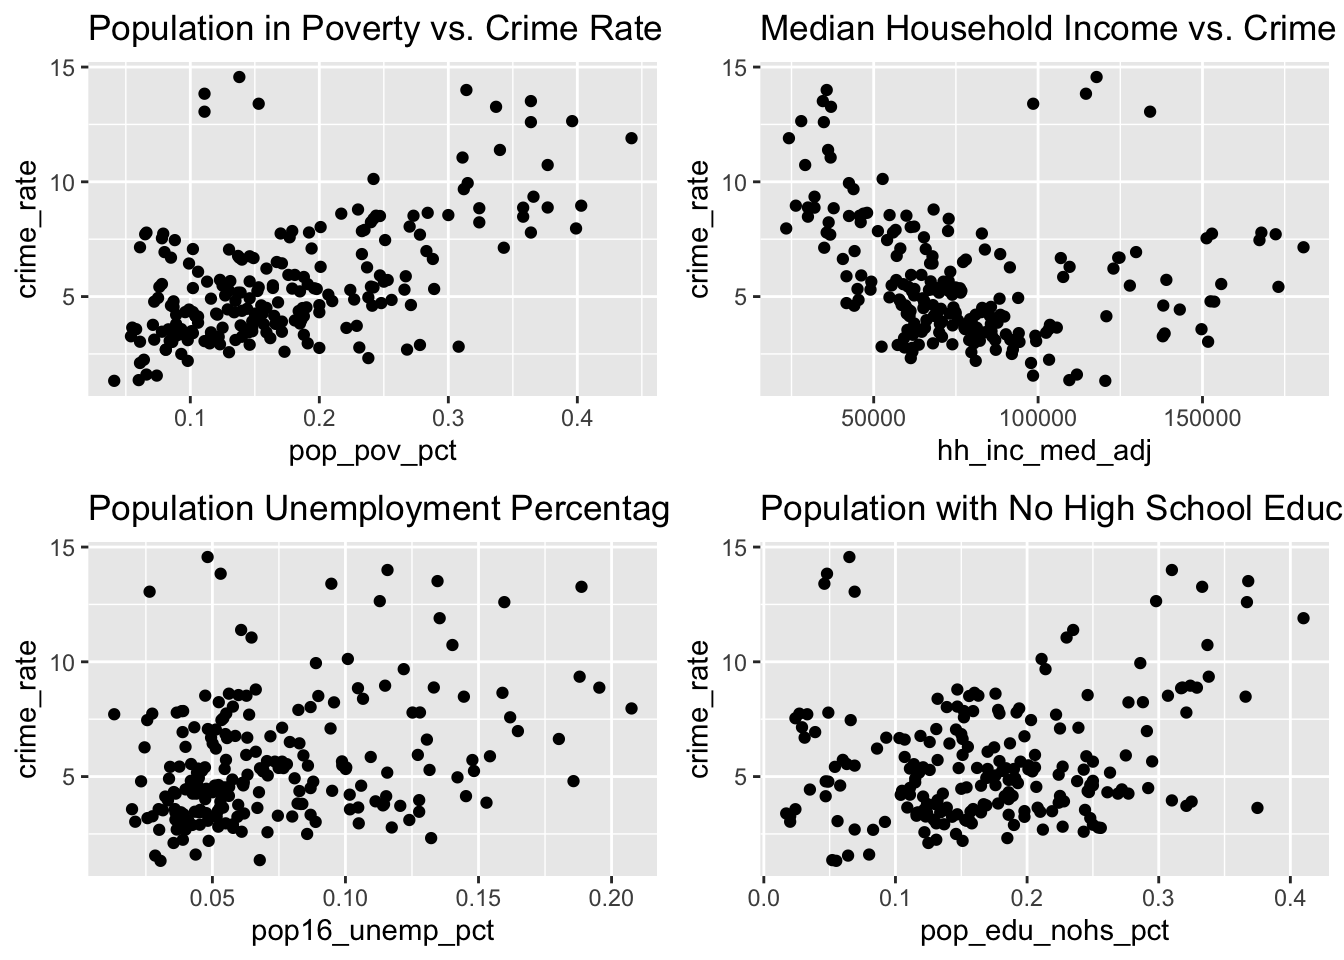
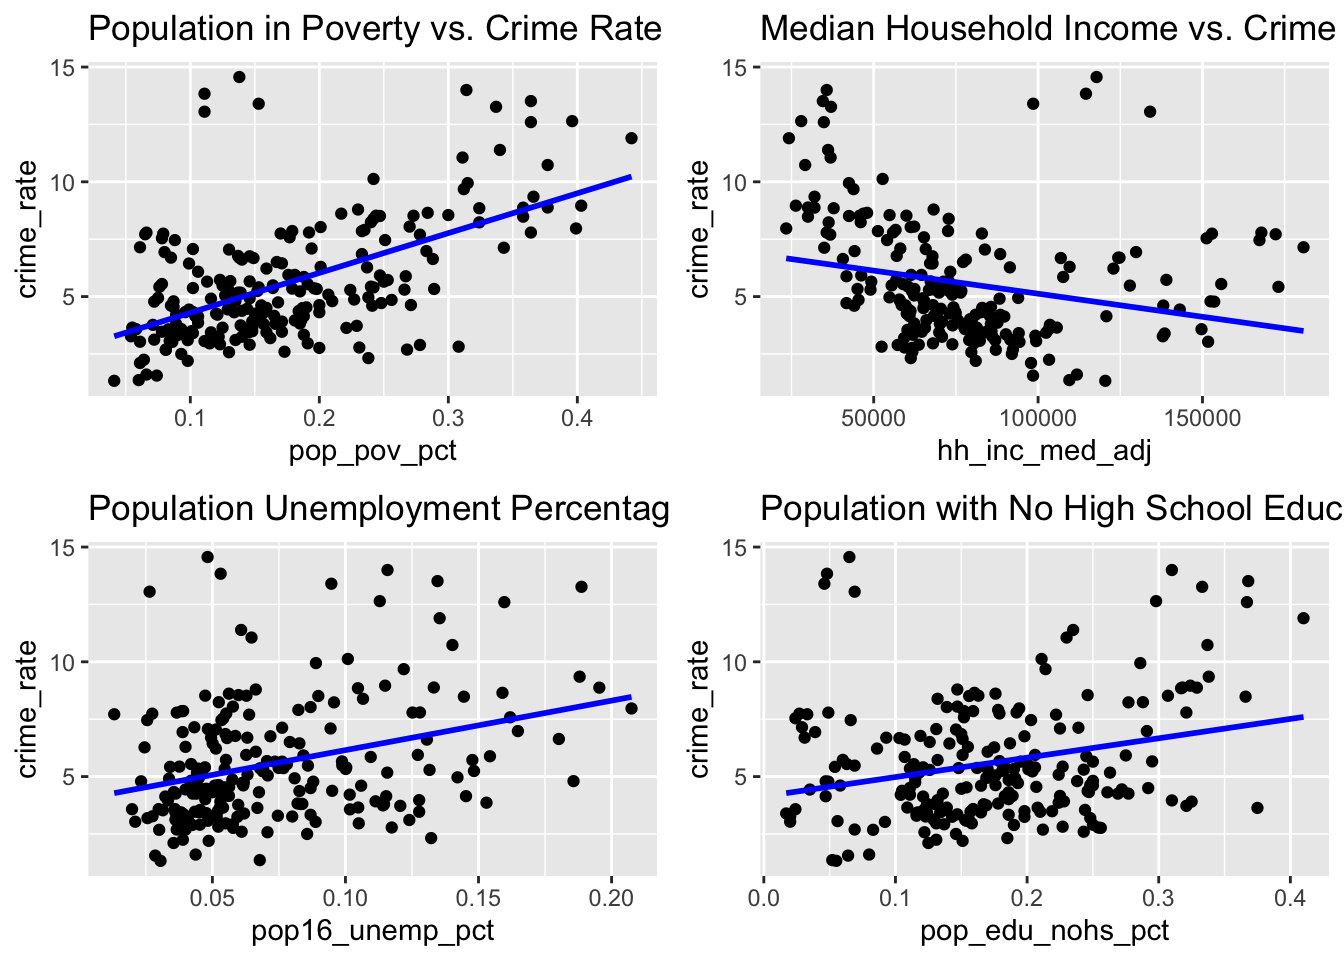
completed MLR for crime rate, file can be knitted

diff --git a/Crime_Rate_Analysis.html b/Crime_Rate_Analysis.html
@@ -404,9 +404,17 @@ div.tocify {
 </div>
 
 
-<p>Reading in the dataset that map each precinct to a neighborhood, for
-further SES analysis</p>
-<pre class="r"><code>prec_neighbor = read_csv(&quot;data/nyc_prec_neighborhood.csv&quot;)</code></pre>
+<p>We are interested in exploring whether socioeconomic factors are
+associated or can be used as predictors to assess crime rate. Since our
+NYPD complaint dataset only contains individual complaints, we utilized
+a socioeconomic indicator dataset (INSERT LINK: NYU Furman Center) to
+gather populational data for each borough and neighborhood.</p>
+<p>To better conduct regression analysis, we have calculated the crime
+rate for each neighborhood as the following: Crime Rate = (Total number
+of complaints in a neighborhood in a given year / Total population in a
+neighborhood in a given year) * 100,000</p>
+<pre class="r"><code>#Reading in the dataset that map each precinct to a neighborhood, for further SES analysis
+prec_neighbor = read_csv(&quot;data/nyc_prec_neighborhood.csv&quot;)</code></pre>
 <pre class="r"><code>#Merging `prec_neighboor` with NYPD dataset, conducting more data cleaning. The resulting `nypd_ses_df` only contains variables of interest for SES analysis. `nypd_ses_df` now contains neighboorhood information, as well as other necessary data from the original master data 
 nypd_ses_df = df_nypd |&gt; 
   select(cmplnt_num, cmplnt_fr_dt, addr_pct_cd, crm_atpt_cptd_cd, law_cat_cd, susp_age_group, susp_race, susp_sex, vic_age_group, vic_race, vic_sex, ofns_desc, pd_desc) |&gt; 
@@ -420,7 +428,7 @@ neighbor_ses = readxl::read_excel(&quot;data/neighorhood_indicators.xlsx&quot;, 
   filter(region_type == &quot;Sub-Borough Area&quot;) |&gt; 
   rename(neighborhood = region_name) |&gt; 
   select(neighborhood, year, pop_num, hh_inc_med_adj, pop16_unemp_pct, pop_edu_collp_pct, pop_edu_nohs_pct, pop_pov_pct, pop_race_asian_pct, pop_race_black_pct, pop_race_hisp_pct, pop_race_white_pct, pop_foreign_pct) |&gt; 
-  filter(year %in% c(2017, 2018, 2019, 2020, 2021, 2022))
+  filter(year %in% c(2017, 2018, 2019, 2021)) #2020 and 2022 data missing
 
 neighbor_rent = readxl::read_excel(&quot;data/neighorhood_indicators.xlsx&quot;, sheet = &quot;Data&quot;) |&gt; 
   janitor::clean_names() |&gt; 
@@ -445,22 +453,92 @@ level?</h2>
 <p>Visualizing potential association between poverty, income, and
 educational level with crime rate:</p>
 <pre class="r"><code>eda_plot1 = ses_df |&gt; ggplot(aes(x = pop_pov_pct, y = crime_rate)) +
-  geom_point() +  labs(title = &quot;Population in Poverty vs. Crime Rate&quot;)
+  geom_point() +  
+  geom_smooth(method = &quot;lm&quot;, se = FALSE, color = &quot;blue&quot;) +
+  labs(title = &quot;Population in Poverty vs. Crime Rate&quot;)
 
 eda_plot2 = ses_df |&gt; ggplot(aes(x = hh_inc_med_adj, y = crime_rate)) +
-  geom_point() + labs(title = &quot;Median Household Income vs. Crime Rate&quot;)
+  geom_point() + 
+  geom_smooth(method = &quot;lm&quot;, se = FALSE, color = &quot;blue&quot;) +
+  labs(title = &quot;Median Household Income vs. Crime Rate&quot;)
 
 eda_plot3 = ses_df |&gt; ggplot(aes(x = pop16_unemp_pct, y = crime_rate)) +
-  geom_point() + labs(title = &quot;Population Unemployment Percentage vs. Crime Rate&quot;)
+  geom_point() + 
+  geom_smooth(method = &quot;lm&quot;, se = FALSE, color = &quot;blue&quot;) +
+  labs(title = &quot;Population Unemployment Percentage vs. Crime Rate&quot;)
 
 eda_plot4 = ses_df |&gt; ggplot(aes(x = pop_edu_nohs_pct, y = crime_rate)) +
-  geom_point() + labs(title = &quot;Population with No High School Education vs. Crime Rate&quot;)
+  geom_point() + 
+  geom_smooth(method = &quot;lm&quot;, se = FALSE, color = &quot;blue&quot;) +
+  labs(title = &quot;Population with No High School Education vs. Crime Rate&quot;)
 
 gridExtra::grid.arrange(
   eda_plot1, eda_plot2, eda_plot3, eda_plot4, ncol = 2)</code></pre>
 <p><img src="Crime_Rate_Analysis_files/figure-html/unnamed-chunk-6-1.png" width="672" /></p>
-<p>Visualizing trend: are crime rates associated with racial
-factors?</p>
+<p>It is observed that there is a stronger positive association between
+percentage of poverty population with crime rate; a weaker positive
+association between unemployment and lack of education with crime rate,
+and a negative association between median household income and crime
+rate.</p>
+<p>We would like to fit a linear model to use these four SES indicators
+as predictors for crime rate outcome in a specific neighborhood.</p>
+<p>Let’s first visualize the distribution of crime rate:</p>
+<pre class="r"><code>ses_df |&gt; ggplot(aes(x = crime_rate)) +
+  geom_histogram(alpha = 0.8, color = &quot;white&quot;) + 
+  labs(
+    x = &quot;Crime Rate&quot; ,
+    y = &quot;Count&quot;,
+    title = &quot;Distribution of Crime Rate by Neighborhoods&quot;)</code></pre>
+<p><img src="Crime_Rate_Analysis_files/figure-html/unnamed-chunk-7-1.png" width="672" /></p>
+<p>We can use Box-Cox Transformation to transform the data for linear
+fit</p>
+<pre class="r"><code>initial_fit = lm(crime_rate ~ pop_pov_pct + hh_inc_med_adj + pop16_unemp_pct + pop_edu_nohs_pct, data = ses_df)
+
+MASS::boxcox(initial_fit)</code></pre>
+<p><img src="Crime_Rate_Analysis_files/figure-html/unnamed-chunk-8-1.png" width="672" /></p>
+<p>From the Box-Cox Transformation, log-transformation seems to be the
+best option. We will perform a log transformation on crime rate and use
+this as the predictor.</p>
+<pre class="r"><code>ses_df = ses_df |&gt; mutate(
+  log_crime_rate = log(crime_rate)
+)
+
+log_fit = lm(log_crime_rate ~ pop_pov_pct + hh_inc_med_adj + pop16_unemp_pct + pop_edu_nohs_pct, data = ses_df)
+
+broom::tidy(log_fit)</code></pre>
+<pre><code>## # A tibble: 5 × 5
+##   term                estimate  std.error statistic  p.value
+##   &lt;chr&gt;                  &lt;dbl&gt;      &lt;dbl&gt;     &lt;dbl&gt;    &lt;dbl&gt;
+## 1 (Intercept)       0.421      0.203          2.07  3.94e- 2
+## 2 pop_pov_pct       4.64       0.483          9.61  2.27e-18
+## 3 hh_inc_med_adj    0.00000550 0.00000140     3.92  1.19e- 4
+## 4 pop16_unemp_pct   0.560      0.749          0.748 4.55e- 1
+## 5 pop_edu_nohs_pct -0.439      0.493         -0.890 3.74e- 1</code></pre>
+<p>From the result of the MLR, it is observed that all 4 predictors are
+significant in terms of association with the crime rate outcome. We can
+run a regression diagnostic by plotting residuals for each borough:</p>
+<pre class="r"><code>ses_df |&gt; 
+  modelr::add_residuals(log_fit) |&gt; 
+  ggplot(aes(x = borough, y = resid)) + geom_violin() + 
+  labs(title = &quot;MLR residuals for each borough&quot;, 
+       xlab = &quot;Borough&quot;, 
+       ylab = &quot;Residuals&quot;)</code></pre>
+<p><img src="Crime_Rate_Analysis_files/figure-html/unnamed-chunk-10-1.png" width="672" /></p>
+<p>We can further inspect our model by plotting residuals against fitted
+values</p>
+<pre class="r"><code>ses_df |&gt; 
+  modelr::add_residuals(log_fit) |&gt; 
+  modelr::add_predictions(log_fit) |&gt; 
+  ggplot(aes(x = pred, y = resid, color = borough)) + geom_point() +
+  labs(title = &quot;MLR residuals against fitted value&quot;, 
+       xlab = &quot;Residuals&quot;, 
+       ylab = &quot;Fitted Values&quot;)</code></pre>
+<p><img src="Crime_Rate_Analysis_files/figure-html/unnamed-chunk-11-1.png" width="672" /></p>
+<p>From the two diagnostics plots above, we can see that the residuals
+are roughly centered around zero, and are relatively normal. This would
+indicate that our model is a relatively good fit.</p>
+<p>Visualizing trend: are crime rates associated with racial factors?
+(delete??)</p>
 <pre class="r"><code>eda_plot5 = ses_df |&gt; ggplot(aes(x = pop_race_asian_pct, y = crime_rate)) +
   geom_point() +  labs(title = &quot;Asian% in Poverty vs. Crime Rate&quot;)
 
@@ -475,7 +553,7 @@ eda_plot8 = ses_df |&gt; ggplot(aes(x = pop_race_white_pct, y = crime_rate)) +
 
 gridExtra::grid.arrange(
   eda_plot5, eda_plot6, eda_plot7, eda_plot8, ncol = 2)</code></pre>
-<p><img src="Crime_Rate_Analysis_files/figure-html/unnamed-chunk-7-1.png" width="672" /></p>
+<p><img src="Crime_Rate_Analysis_files/figure-html/unnamed-chunk-12-1.png" width="672" /></p>
 </div>
 
 
